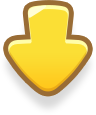
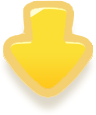
튜토리얼 화살표 적용

Changed region(s): [[0.0312, 0.0, 0.9688, 0.8609]]

diff --git a/game.js b/game.js
@@ -531,7 +531,8 @@
             hapticsOn: true
         });
         const SCENE_CONTRACT_VERSION = "20260616-10";
-        const NGROK_BYPASS_HEADERS = window.location.hostname.includes("ngrok")
+        const IS_NGROK_HOST = window.location.hostname.includes("ngrok");
+        const NGROK_BYPASS_HEADERS = IS_NGROK_HOST
             ? { "ngrok-skip-browser-warning": "true" }
             : {};
         const TITLE_MINIMUM_VISIBLE_MS = 240;
@@ -1803,8 +1804,12 @@
         }
 
         function getInitialMapIndex() {
+            if (IS_NGROK_HOST) {
+                return getFirstPlayableMapIndex();
+            }
+
             const persistedMapId = readPersistedCurrentMapId();
-            const targetMapId = persistedMapId || "shiba";
+            const targetMapId = persistedMapId || "tutorial";
             const restoredIndex = MAP_DEFINITIONS.findIndex((definition) => definition.id === targetMapId);
             return restoredIndex >= 0 ? restoredIndex : 0;
         }
@@ -7773,7 +7778,7 @@
 
             const hintArrow = document.createElement("img");
             hintArrow.className = "tutorial-hint-arrow";
-            hintArrow.src = "./src/assets/tutorial_arr_down.png";
+            hintArrow.src = `./src/assets/tutorial_arr_down.png?v=${RUNTIME_SCENE_ASSET_BUSTER}`;
             hintArrow.alt = "";
             hintArrow.setAttribute("aria-hidden", "true");
             hint.append(hintArrow);
@@ -9646,12 +9651,15 @@
                         cancelable: true
                     }));
                 });
-                const restoredRuntimeSnapshot = await restoreRuntimeSnapshot();
+                const restoredRuntimeSnapshot = IS_NGROK_HOST
+                    ? false
+                    : await restoreRuntimeSnapshot();
                 pushLifecycleDebugEntry("runtime-restore", {
                     restored: restoredRuntimeSnapshot
                 });
                 if (!restoredRuntimeSnapshot) {
                     clearPersistedGameProgress();
+                    clearRuntimeSnapshot();
                     resetGame({ regenerateLevelStart: true });
                 }
             } catch (error) {
